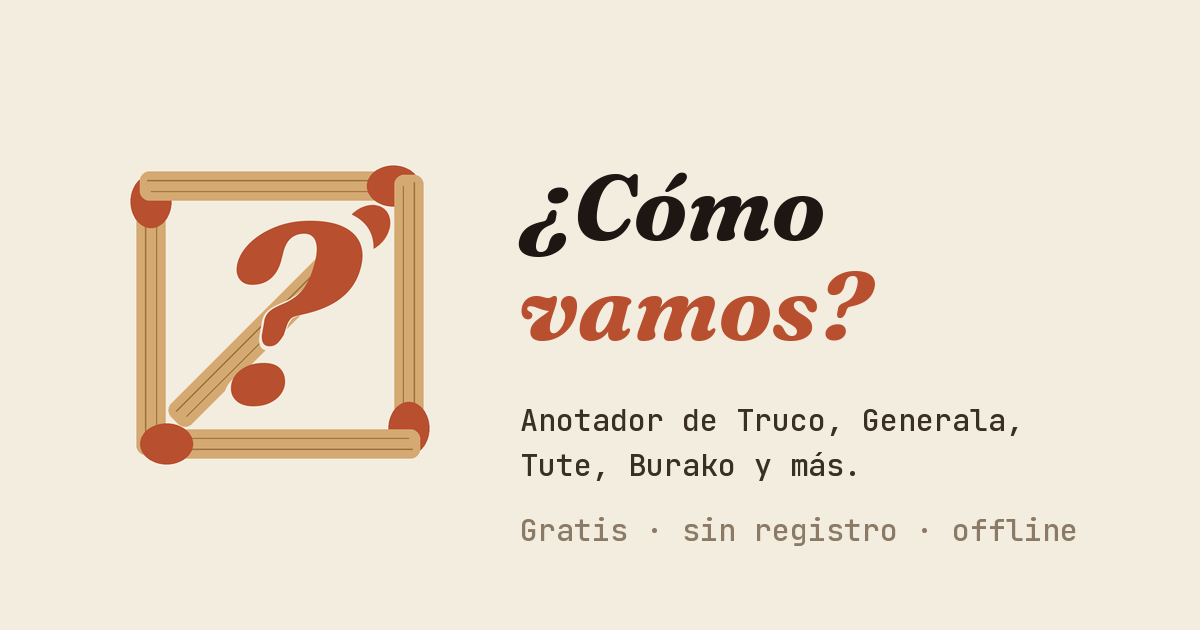
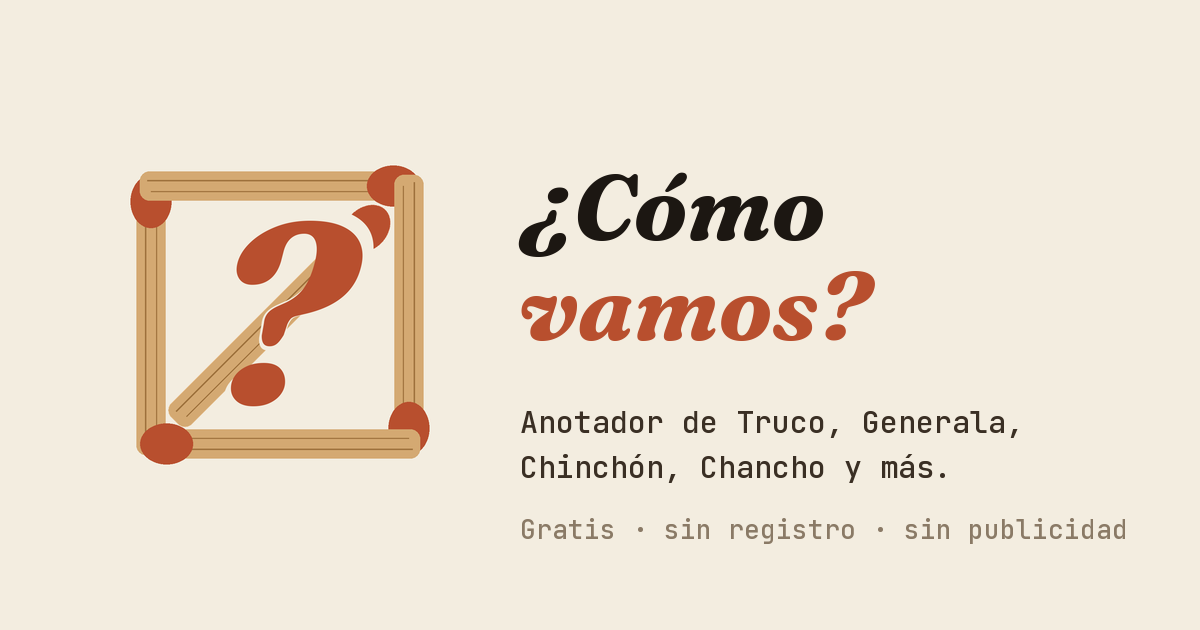
Landing 1.1: juegos nuevos, novedades y capturas actualizadas
Chancho, Chinchón y Las Bases (con cinta ¡NUEVO!), sección Novedades de la versión 1.1, 8 capturas nuevas en lugar de 3, og.png y metadatos sin "100% offline".

diff --git a/index.html b/index.html
@@ -3,20 +3,20 @@
 <head>
 <meta charset="utf-8">
 <meta name="viewport" content="width=device-width, initial-scale=1">
-<title>¿Cómo vamos? — Anotador de Truco, Generala, Tute y más</title>
-<meta name="description" content="App gratuita para anotar Truco, Generala, Tute, Burako, Carioca y Diez Mil. Sin registro, sin publicidad, 100% offline.">
+<title>¿Cómo vamos? — Anotador de Truco, Generala, Chinchón, Chancho y más</title>
+<meta name="description" content="Como Vamos: app gratuita para anotar Truco, Generala, Chinchón, Chancho, Las Bases, Diez Mil, Burako, Carioca y Tute. Sin registro, sin publicidad y funciona sin internet.">
 <link rel="icon" href="icon.png">
 <link rel="apple-touch-icon" href="apple-touch-icon.png">
 <meta property="og:type" content="website">
 <meta property="og:title" content="¿Cómo vamos? — el anotador para tus juegos de cartas y dados">
-<meta property="og:description" content="Truco, Generala, Tute, Burako, Carioca, Diez Mil. Gratis, sin registro, sin publicidad.">
+<meta property="og:description" content="Truco, Generala, Chinchón, Chancho, Las Bases, Diez Mil y más. Gratis, sin registro, sin publicidad.">
 <meta property="og:image" content="https://peurman.github.io/comovamos/og.png">
 <meta property="og:url" content="https://peurman.github.io/comovamos/">
 <meta name="twitter:card" content="summary_large_image">
 <style>
 @font-face{font-family:Fraunces;font-style:italic;font-weight:700;src:url(fonts/Fraunces_700Bold_Italic.ttf) format("truetype");font-display:swap}
 @font-face{font-family:JBMono;font-weight:500;src:url(fonts/JetBrainsMono_500Medium.ttf) format("truetype");font-display:swap}
-:root{--paper:#f3ede0;--deep:#ebe3cf;--ink:#1c1712;--soft:#3a2f24;--muted:#8a7a66;--accent:#b84f2e;--accent-dark:#92381e;--rule:rgba(28,23,18,.14)}
+:root{--paper:#f3ede0;--deep:#ebe3cf;--ink:#1c1712;--soft:#3a2f24;--muted:#8a7a66;--accent:#b84f2e;--accent-dark:#92381e;--rule:rgba(28,23,18,.14);--ribbon:#f5c84c}
 *{box-sizing:border-box}
 body{margin:0;background:var(--paper);color:var(--ink);font-family:Georgia,"Times New Roman",serif;line-height:1.55;
  background-image:repeating-linear-gradient(transparent 0 31px,var(--rule) 31px 32px)}
@@ -35,12 +35,22 @@ h1 span{color:var(--accent)}
 .btn b{font-family:Fraunces,Georgia,serif;font-style:italic;font-size:22px}
 .btn.alt{background:var(--accent);border-color:var(--accent)}
 .shots{display:flex;gap:14px;overflow-x:auto;padding:30px 4px 12px;scroll-snap-type:x mandatory}
-.shots img{height:440px;width:auto;border-radius:22px;border:1px solid var(--rule);box-shadow:0 8px 22px rgba(28,23,18,.15);scroll-snap-align:center;flex:none}
+.shots img{height:440px;width:auto;border-radius:22px;border:1px solid var(--rule);box-shadow:0 8px 22px rgba(28,23,18,.15);scroll-snap-align:start;flex:none}
+.hint{text-align:center;margin:0}
 h2{font-family:Fraunces,Georgia,serif;font-style:italic;font-size:28px;margin:38px 0 8px}
+h2 small{font-family:JBMono,monospace;font-style:normal;font-size:12px;letter-spacing:.14em;color:var(--accent);vertical-align:middle;margin-left:8px}
+.news{background:var(--deep);border:1px solid var(--rule);border-radius:16px;padding:6px 20px 8px;margin:12px 0}
+.news ul{padding-left:20px;margin:10px 0}
+.news li{margin:6px 0;color:var(--soft)}
+.news b{color:var(--ink)}
 .games{display:grid;grid-template-columns:repeat(auto-fill,minmax(210px,1fr));gap:10px;padding:0;list-style:none;margin:12px 0}
-.games li{background:var(--deep);border:1px solid var(--rule);border-radius:14px;padding:12px 16px}
+.games li{position:relative;overflow:hidden;background:var(--deep);border:1px solid var(--rule);border-radius:14px;padding:12px 16px}
 .games b{font-family:Fraunces,Georgia,serif;font-style:italic;font-size:19px}
 .games span{display:block;font-size:14px;color:var(--soft)}
+.games .new{padding-right:60px}
+.games .new::after{content:"¡NUEVO!";position:absolute;top:13px;right:-30px;width:110px;transform:rotate(45deg);background:var(--ribbon);
+ font-family:JBMono,monospace;font-size:10px;letter-spacing:.1em;text-align:center;padding:2px 0;color:var(--ink)}
+.games .more{grid-column:1/-1;font-size:14px;color:var(--muted);background:transparent;border:0;padding:0 4px}
 footer{margin-top:44px;text-align:center}
 footer a{color:var(--accent-dark)}
 </style>
@@ -51,33 +61,54 @@ footer a{color:var(--accent-dark)}
   <img src="icon.png" alt="Ícono de ¿Cómo vamos?">
   <h1>¿Cómo <span>vamos?</span></h1>
   <p class="mono">anotalo acá</p>
-  <p class="lead">El anotador para las tardes de mate, playa y mesas de bar. Truco, Generala, Tute y más — sin papel ni lapicera.</p>
+  <p class="lead">El anotador para las tardes de mate, playa y mesas de bar. Truco, Generala, Chinchón, Chancho y más — sin papel ni lapicera.</p>
   <div class="cta">
     <a class="btn" href="https://play.google.com/store/apps/details?id=com.peurman.comovamos&amp;hl=es_AR"><small>Disponible en</small><b>Google Play</b></a>
     <a class="btn alt" href="https://apps.apple.com/ar/app/como-vamos/id6814896731"><small>Descargala en</small><b>App Store</b></a>
   </div>
-  <p class="mono">Gratis · sin registro · sin publicidad · offline</p>
+  <p class="mono">Gratis · sin registro · sin publicidad · funciona sin internet</p>
 </header>
 
 <div class="shots">
-  <img src="shot1.jpg" alt="Pantalla de inicio con los juegos" loading="lazy">
-  <img src="shot2.jpg" alt="Anotador de Truco con fósforos" loading="lazy">
-  <img src="shot3.jpg" alt="Planilla de Carioca" loading="lazy">
+  <img src="shot-home.jpg" alt="Pantalla de inicio con los juegos" loading="lazy">
+  <img src="shot-truco.jpg" alt="Truco 3 contra 3 con Pica Pica" loading="lazy">
+  <img src="shot-chinchon.jpg" alt="Planilla de Chinchón con cierres" loading="lazy">
+  <img src="shot-lasbases.jpg" alt="Planilla de Las Bases" loading="lazy">
+  <img src="shot-generala.jpg" alt="Planilla de Generala" loading="lazy">
+  <img src="shot-chancho.jpg" alt="Chancho con letras tachadas" loading="lazy">
+  <img src="shot-carioca.jpg" alt="Planilla de Carioca" loading="lazy">
+  <img src="shot-masjuegos.jpg" alt="Más juegos: Burako, Carioca y Tute" loading="lazy">
+</div>
+<p class="mono hint">deslizá para ver más →</p>
+
+<h2>Novedades <small>versión 1.1</small></h2>
+<div class="news">
+  <ul>
+    <li><b>Juegos nuevos:</b> Chancho, Chinchón y Las Bases.</li>
+    <li><b>Truco 3 contra 3 con Pica Pica:</b> el tablero marca la zona y avisa cuándo arranca y cuándo termina.</li>
+    <li><b>Planillas/anotadores más claros,</b> botones y popups con estilos renovados.</li>
+    <li><b>Revancha</b> conservando los mismos jugadores y la misma configuración.</li>
+    <li><b>¿Falta tu juego?</b> Pedilo desde la app, en "¿Sugerencias o mejoras?" (es anónimo).</li>
+  </ul>
 </div>
 
 <h2>Los juegos</h2>
 <ul class="games">
-  <li><b>Truco</b><span>Fósforos, a 15 o 30, con o sin flor</span></li>
-  <li><b>Generala</b><span>11 categorías, con servida</span></li>
+  <li><b>Truco</b><span>Fósforos, a 15 o 30, con o sin flor, hasta 3 contra 3</span></li>
+  <li><b>Generala</b><span>Todas las categorías, con servida</span></li>
+  <li class="new"><b>Chancho</b><span>C·H·A·N·C·H·O: elegís quién perdió la mano</span></li>
+  <li class="new"><b>Las Bases</b><span>De 1 carta al máximo y de vuelta a 1</span></li>
+  <li class="new"><b>Chinchón</b><span>A 70 o 100, con reenganche y cierres</span></li>
+  <li><b>Diez Mil</b><span>Acumulador con botones rápidos</span></li>
+  <li><b>Burako</b><span>4 o 6 manos, gana el que menos suma</span></li>
+  <li><b>Carioca</b><span>Las 7 manos, con "cortó"</span></li>
   <li><b>Tute cabrero</b><span>T·U·T·E y último en pie</span></li>
-  <li><b>Burako</b><span>Mano a mano, gana el que menos suma</span></li>
-  <li><b>Carioca</b><span>Las 7 manos canónicas</span></li>
-  <li><b>Diez Mil</b><span>Acumulador con regla de progreso</span></li>
   <li><b>A medida</b><span>Armá tu propio contador</span></li>
+  <li class="more">Burako, Carioca y Tute están en la sección "Más juegos" de la app.</li>
 </ul>
 
 <footer>
-  <p class="mono">Hecho en Mar del Plata por peurman</p>
+  <p class="mono">Hecho en Mar del Plata por Esteban "peurman" Manrupe</p>
   <p><a href="https://peurman.github.io/comovamos-legal/">Política de privacidad</a> · <a href="mailto:como.vamos.app@gmail.com">Contacto</a></p>
 </footer>
 </main>
